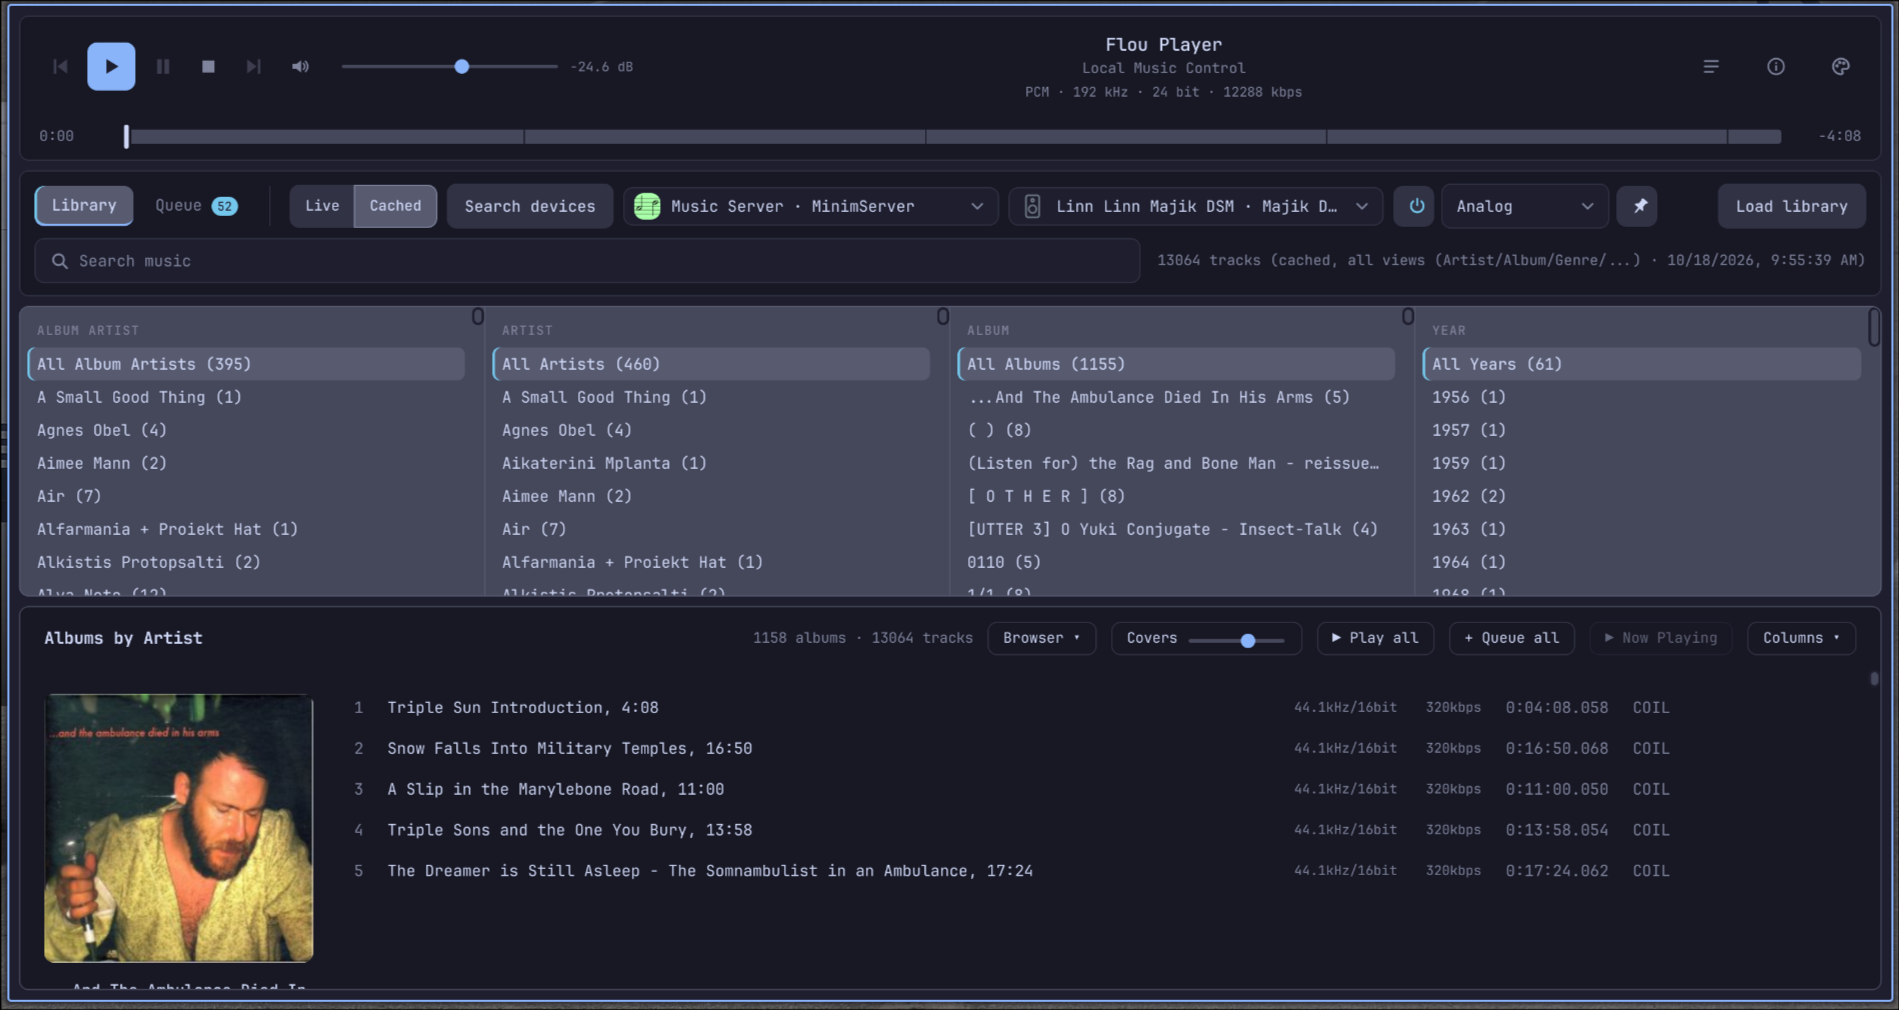
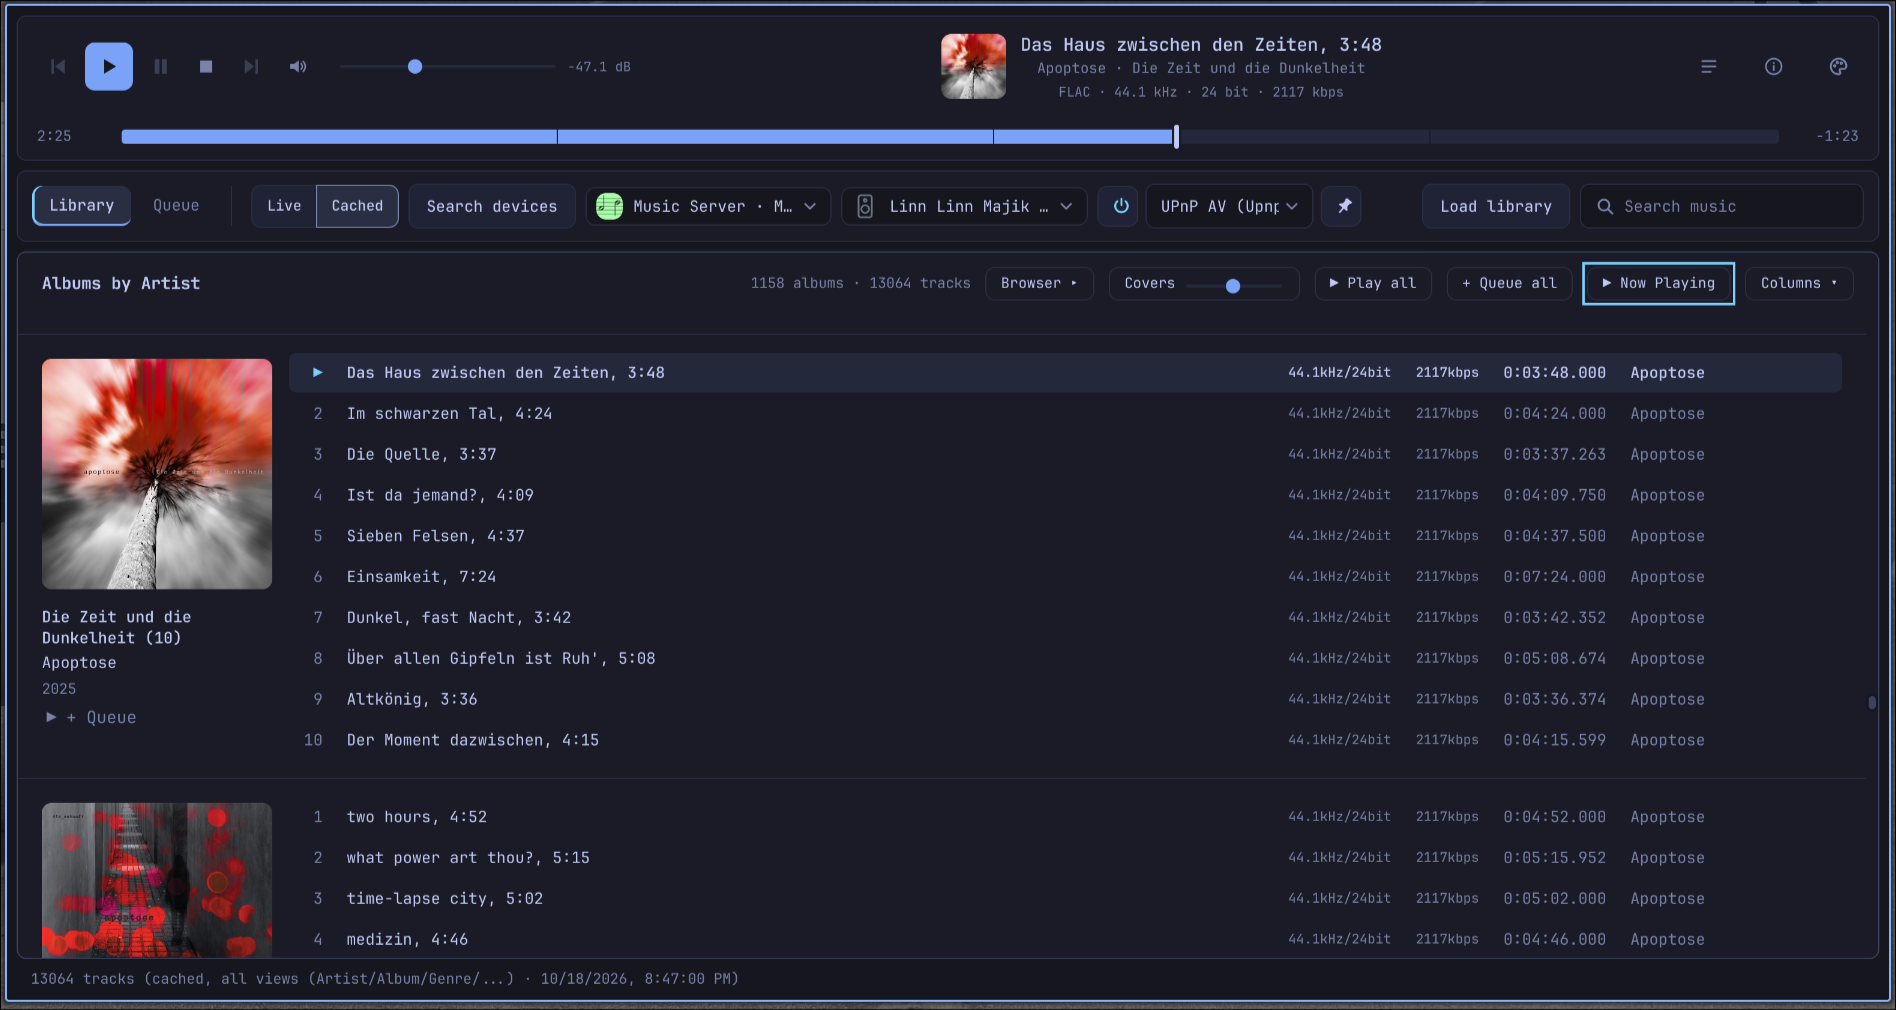
README: new Cached-mode screenshot
Claude-Session: https://claude.ai/code/session_01WfnvNA3sdmEQvHSY68mYXC

diff --git a/CHANGELOG.md b/CHANGELOG.md
@@ -6,6 +6,9 @@ All notable changes to Flou Player are documented here. The format follows
 
 ## [Unreleased]
 
+### Changed
+- README: new screenshot of the Cached mode.
+
 ## [0.13.0] - 2026-10-18
 
 ### Changed
